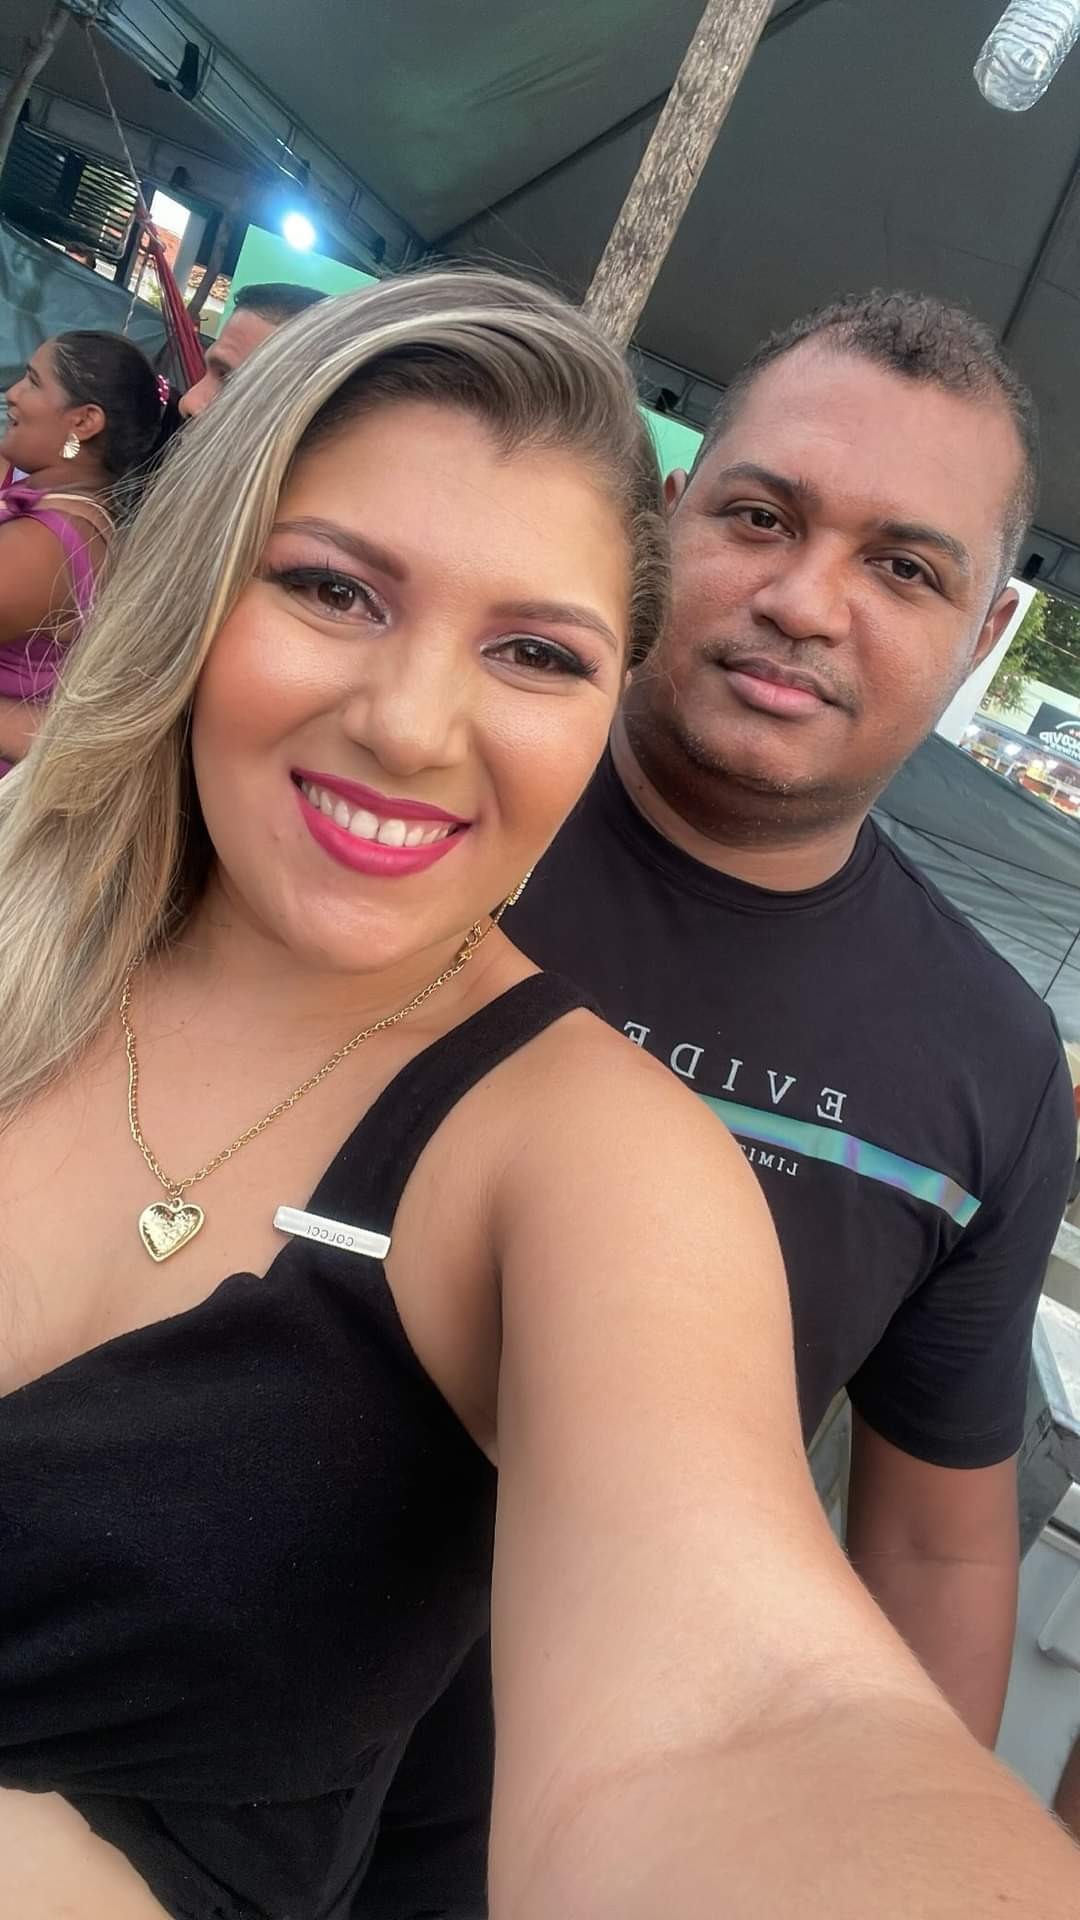
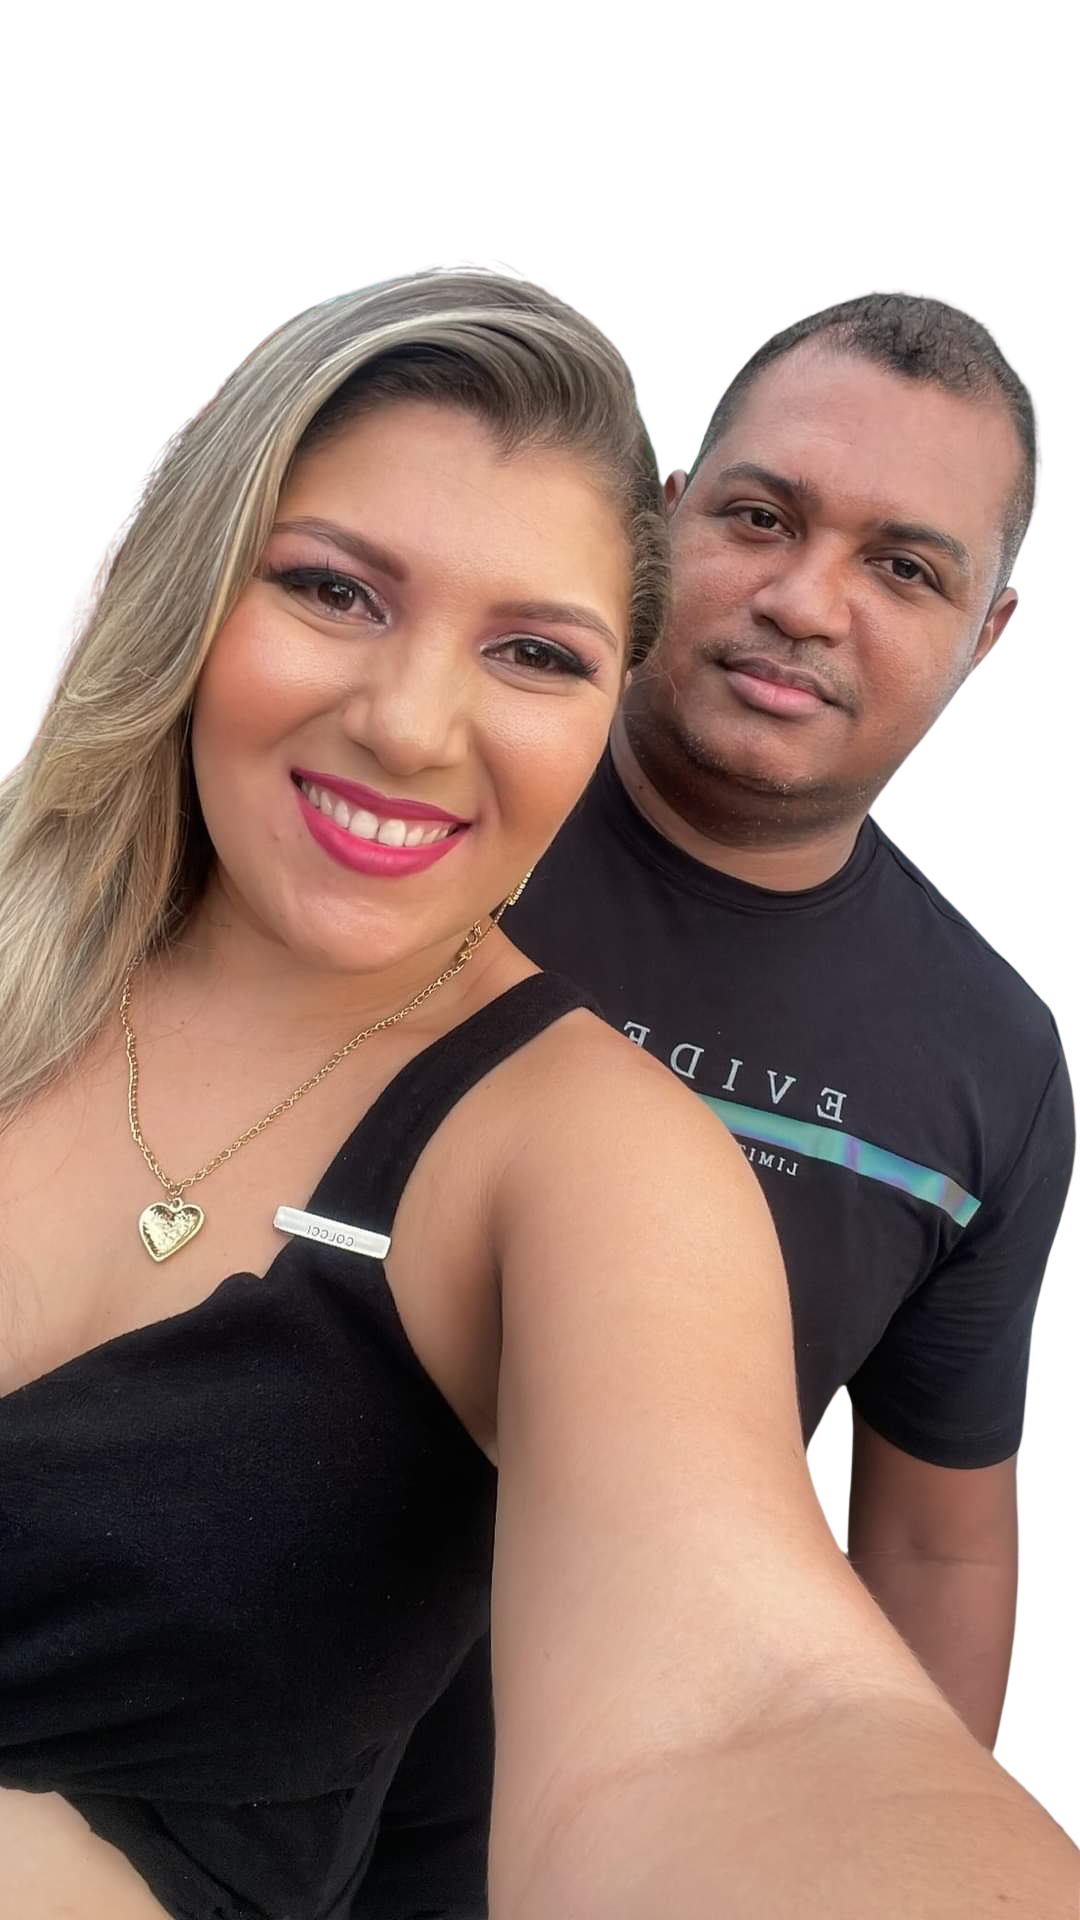
feat: foto real da equipe (fundo branco) + link direto de produto para compartilhar
Substitui os avatares individuais por uma foto única de Jânio e Iza com
fundo removido, usada também no banner de Beleza. Adiciona botão de
compartilhar no modal de produto que gera um link direto (?p=CODIGO)
e abre automaticamente o produto certo para quem recebe o link.

Changed region(s): [[0.0, 0.0, 1.0, 0.9688], [0.7333, 0.7188, 0.7944, 0.8125]]

diff --git a/index.html b/index.html
@@ -205,7 +205,10 @@ body{background:var(--bg);color:var(--txt);font-family:'Montserrat',sans-serif;m
 .modal-wa:active{transform:scale(.97);}
 .modal-wa.janio{background:#25D366;color:#fff;box-shadow:0 4px 16px rgba(37,211,102,.25);}
 .modal-wa.iza{background:#ec4899;color:#fff;box-shadow:0 4px 16px rgba(236,72,153,.35);}
-.modal-close{position:absolute;top:14px;right:16px;background:var(--s2);border:1px solid #2a2a2a;border-radius:50%;width:32px;height:32px;display:flex;align-items:center;justify-content:center;cursor:pointer;font-size:1rem;color:var(--muted);}
+.modal-close{position:absolute;top:14px;right:16px;background:var(--s2);border:1px solid #2a2a2a;border-radius:50%;width:32px;height:32px;display:flex;align-items:center;justify-content:center;cursor:pointer;font-size:1rem;color:var(--muted);z-index:2;}
+.modal-share{position:absolute;top:14px;left:16px;background:var(--s2);border:1px solid #2a2a2a;border-radius:50%;width:32px;height:32px;display:flex;align-items:center;justify-content:center;cursor:pointer;color:var(--gold);z-index:2;}
+.modal-share .icon-svg{width:16px;height:16px;}
+.modal-share-msg{position:absolute;top:52px;left:16px;background:var(--gold);color:#000;font-size:.68rem;font-weight:700;padding:4px 10px;border-radius:8px;z-index:2;pointer-events:none;}
 .modal-sheet{position:relative;}
 
 /* ── FLOATING WA ── */
@@ -255,9 +258,10 @@ body{background:var(--bg);color:var(--txt);font-family:'Montserrat',sans-serif;m
 
 /* ── EQUIPE ── */
 .equipe{background:var(--s2);padding:24px 16px;border-bottom:1px solid #1a1a1a;}
+.equipe-foto{width:100%;aspect-ratio:4/3;border-radius:16px;overflow:hidden;margin-bottom:14px;background:#fff;border:1px solid #1e1e1e;}
+.equipe-foto img{width:100%;height:100%;object-fit:cover;object-position:center 22%;display:block;}
 .equipe-grid{display:grid;grid-template-columns:1fr 1fr;gap:12px;}
 .membro{background:var(--s1);border:1px solid #1e1e1e;border-radius:16px;padding:16px;text-align:center;}
-.membro-avatar{width:64px;height:64px;border-radius:50%;background:linear-gradient(135deg,var(--gold),#8B6914);display:flex;align-items:center;justify-content:center;font-size:1.8rem;margin:0 auto 10px;}
 .membro-nome{font-size:.85rem;font-weight:800;color:#fff;margin-bottom:3px;}
 .membro-cargo{font-size:.65rem;color:var(--gold);font-weight:600;text-transform:uppercase;letter-spacing:1px;margin-bottom:8px;}
 .membro-desc{font-size:.68rem;color:#aaa;line-height:1.5;margin-bottom:10px;}
@@ -293,7 +297,7 @@ body{background:var(--bg);color:var(--txt);font-family:'Montserrat',sans-serif;m
 /* ── SERVIÇOS IZA (BELEZA) ── */
 .iza-banner{background:linear-gradient(135deg,#1a0010,#2d0020,#1a0010);border-bottom:1px solid rgba(236,72,153,.25);padding:20px 16px 14px;}
 .iza-banner-top{display:flex;align-items:center;gap:12px;margin-bottom:14px;}
-.iza-banner-avatar{width:56px;height:56px;border-radius:50%;background:linear-gradient(135deg,#ec4899,#be185d);display:flex;align-items:center;justify-content:center;font-size:1.6rem;flex-shrink:0;border:2px solid rgba(236,72,153,.5);}
+.iza-banner-avatar{width:56px;height:56px;border-radius:50%;background:linear-gradient(135deg,#ec4899,#be185d);display:flex;align-items:center;justify-content:center;font-size:1.6rem;flex-shrink:0;border:2px solid rgba(236,72,153,.5);background-size:300% auto;background-repeat:no-repeat;color:transparent;}
 .iza-banner-info{flex:1;}
 .iza-banner-name{font-size:.9rem;font-weight:800;color:#fff;}
 .iza-banner-role{font-size:.65rem;color:#f472b6;font-weight:600;text-transform:uppercase;letter-spacing:1.5px;}
@@ -454,9 +458,11 @@ body{background:var(--bg);color:var(--txt);font-family:'Montserrat',sans-serif;m
   <!-- ── 7. EQUIPE ── -->
   <div class="equipe">
     <div class="sec-label">Nossa equipe</div>
+    <div class="equipe-foto">
+      <img src="imgs/equipe_izabel_janio.png" alt="Jânio e Iza — Smart Store 09" loading="lazy">
+    </div>
     <div class="equipe-grid">
       <div class="membro">
-        <div class="membro-avatar">👨🔧</div>
         <div class="membro-nome">Jânio Joaquim</div>
         <div class="membro-cargo">Fundador · Técnico</div>
         <div class="membro-desc">Professor de Física e técnico especializado em Apple e Android. Atende Paraibano e toda a região.</div>
@@ -465,7 +471,6 @@ body{background:var(--bg);color:var(--txt);font-family:'Montserrat',sans-serif;m
         </a>
       </div>
       <div class="membro" style="border-color:#ec4899;border-width:1.5px;">
-        <div class="membro-avatar" style="background:linear-gradient(135deg,#ec4899,#be185d);">💄</div>
         <div class="membro-nome">Iza</div>
         <div class="membro-cargo" style="color:#ec4899;">Maquiadora · Consultora</div>
         <div class="membro-desc">Consultora Mary Kay &amp; Natura. Maquiagem profissional na bancada. Cursos Básico e Profissional.</div>
@@ -623,7 +628,7 @@ body{background:var(--bg);color:var(--txt);font-family:'Montserrat',sans-serif;m
     <!-- Banner serviços da Iza -->
     <div class="iza-banner">
       <div class="iza-banner-top">
-        <div class="iza-banner-avatar">💄</div>
+        <div class="iza-banner-avatar" style="background-image:url('imgs/equipe_izabel_janio.png');background-position:27% 24%;"></div>
         <div class="iza-banner-info">
           <div class="iza-banner-name">Iza — Maquiadora Profissional</div>
           <div class="iza-banner-role">Consultora Mary Kay &amp; Natura</div>
@@ -1068,6 +1073,26 @@ const REV_NAME = REV_SLUG
   ? decodeURIComponent(REV_SLUG.replace(/-/g,' ')).replace(/\b\w/g, c => c.toUpperCase())
   : '';
 const revRef = REV_NAME ? `\n\n🤝 Indicado por: ${REV_NAME}` : '';
+
+// ── LINK DIRETO DE PRODUTO (compartilhar) ──
+const PRODUTO_CODE = new URLSearchParams(location.search).get('p') || '';
+function linkProduto(code){
+  return `${location.origin}${location.pathname}?p=${encodeURIComponent(code)}`;
+}
+async function shareProduct(code, name){
+  const url = linkProduto(code);
+  const texto = `${name} — Smart Store 09\n${url}`;
+  if(navigator.share){
+    try{ await navigator.share({title:name, text:name, url}); return; }catch(e){ if(e.name==='AbortError') return; }
+  }
+  try{
+    await navigator.clipboard.writeText(texto);
+    const btn=document.getElementById('m-share-msg');
+    if(btn){ btn.textContent='Link copiado!'; setTimeout(()=>btn.textContent='',1800); }
+  }catch(e){
+    prompt('Copie o link do produto:', url);
+  }
+}
 
 const FRETE_TABLE = {
   MA:{min:10,max:18,d:4},
@@ -1629,6 +1654,7 @@ function openModal(id){
   const msgI=msgJ;
   document.getElementById('mWaJ').href=wa(WA_J,msgJ);
   document.getElementById('mWaI').href=wa(WA_I,msgI);
+  document.getElementById('m-share-btn').onclick=()=>shareProduct(p.code,p.name);
   ov.classList.add('open');
   document.body.style.overflow='hidden';
 }
@@ -1650,6 +1676,11 @@ window.addEventListener('DOMContentLoaded',()=>{
     if(e.target===this)closeModal();
   });
   document.getElementById('lightbox').addEventListener('click',closeLightbox);
+  // Abre direto o produto se vier de um link compartilhado (?p=CODIGO)
+  if(PRODUTO_CODE){
+    const prod = P.find(x=>x.code===PRODUTO_CODE);
+    if(prod){ goTab(prod.cat); openModal(prod.id); }
+  }
 });
 </script>
 
@@ -1658,7 +1689,11 @@ window.addEventListener('DOMContentLoaded',()=>{
   <div class="modal-sheet">
     <div class="modal-drag"></div>
     <button class="modal-close" onclick="closeModal()">✕</button>
+    <button class="modal-share" id="m-share-btn" title="Compartilhar link deste produto">
+      <svg class="icon-svg" viewBox="0 0 24 24"><circle cx="18" cy="5" r="3"/><circle cx="6" cy="12" r="3"/><circle cx="18" cy="19" r="3"/><path d="M8.6 13.5l6.8 4M15.4 6.5l-6.8 4"/></svg>
+    </button>
     <div class="modal-img" id="m-img"></div>
+    <div class="modal-share-msg" id="m-share-msg"></div>
     <div class="modal-body">
       <div id="m-badge" class="modal-badge"></div>
       <div class="modal-name" id="m-name"></div>
